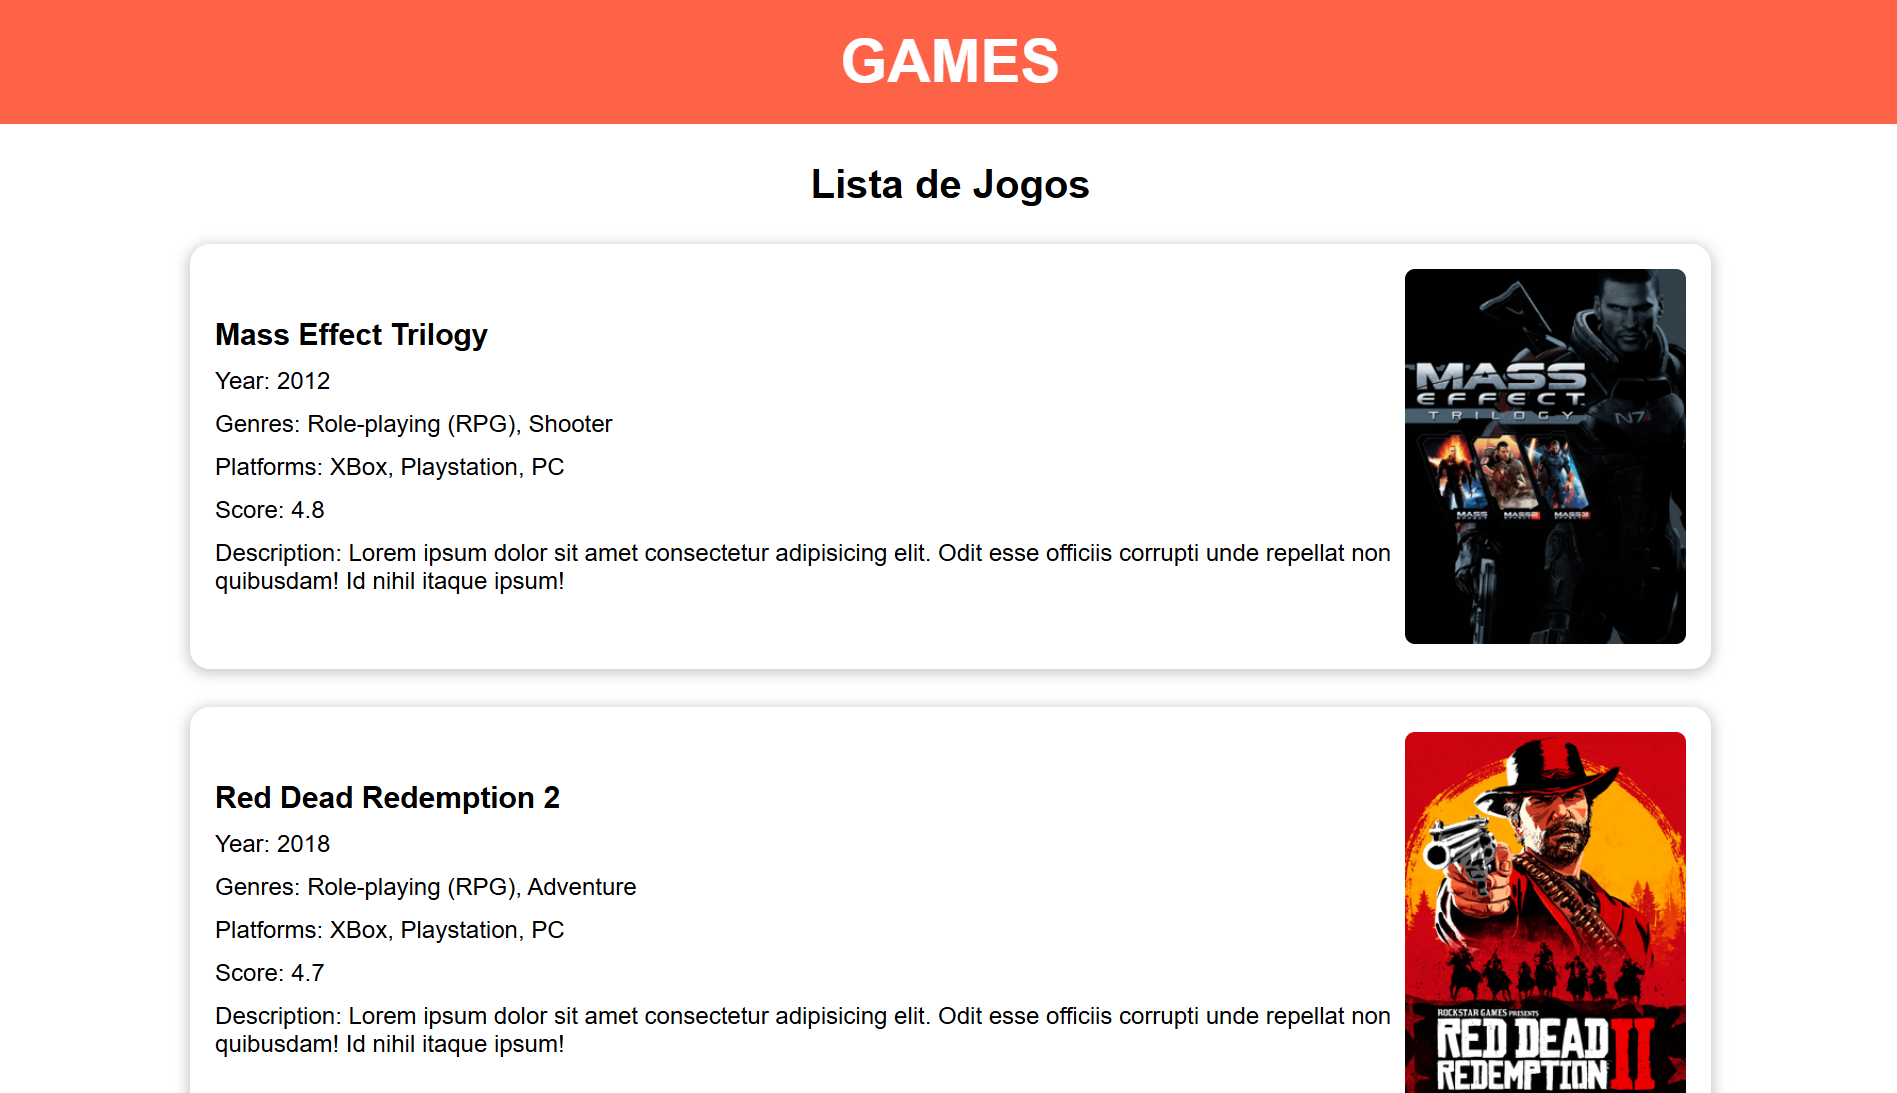
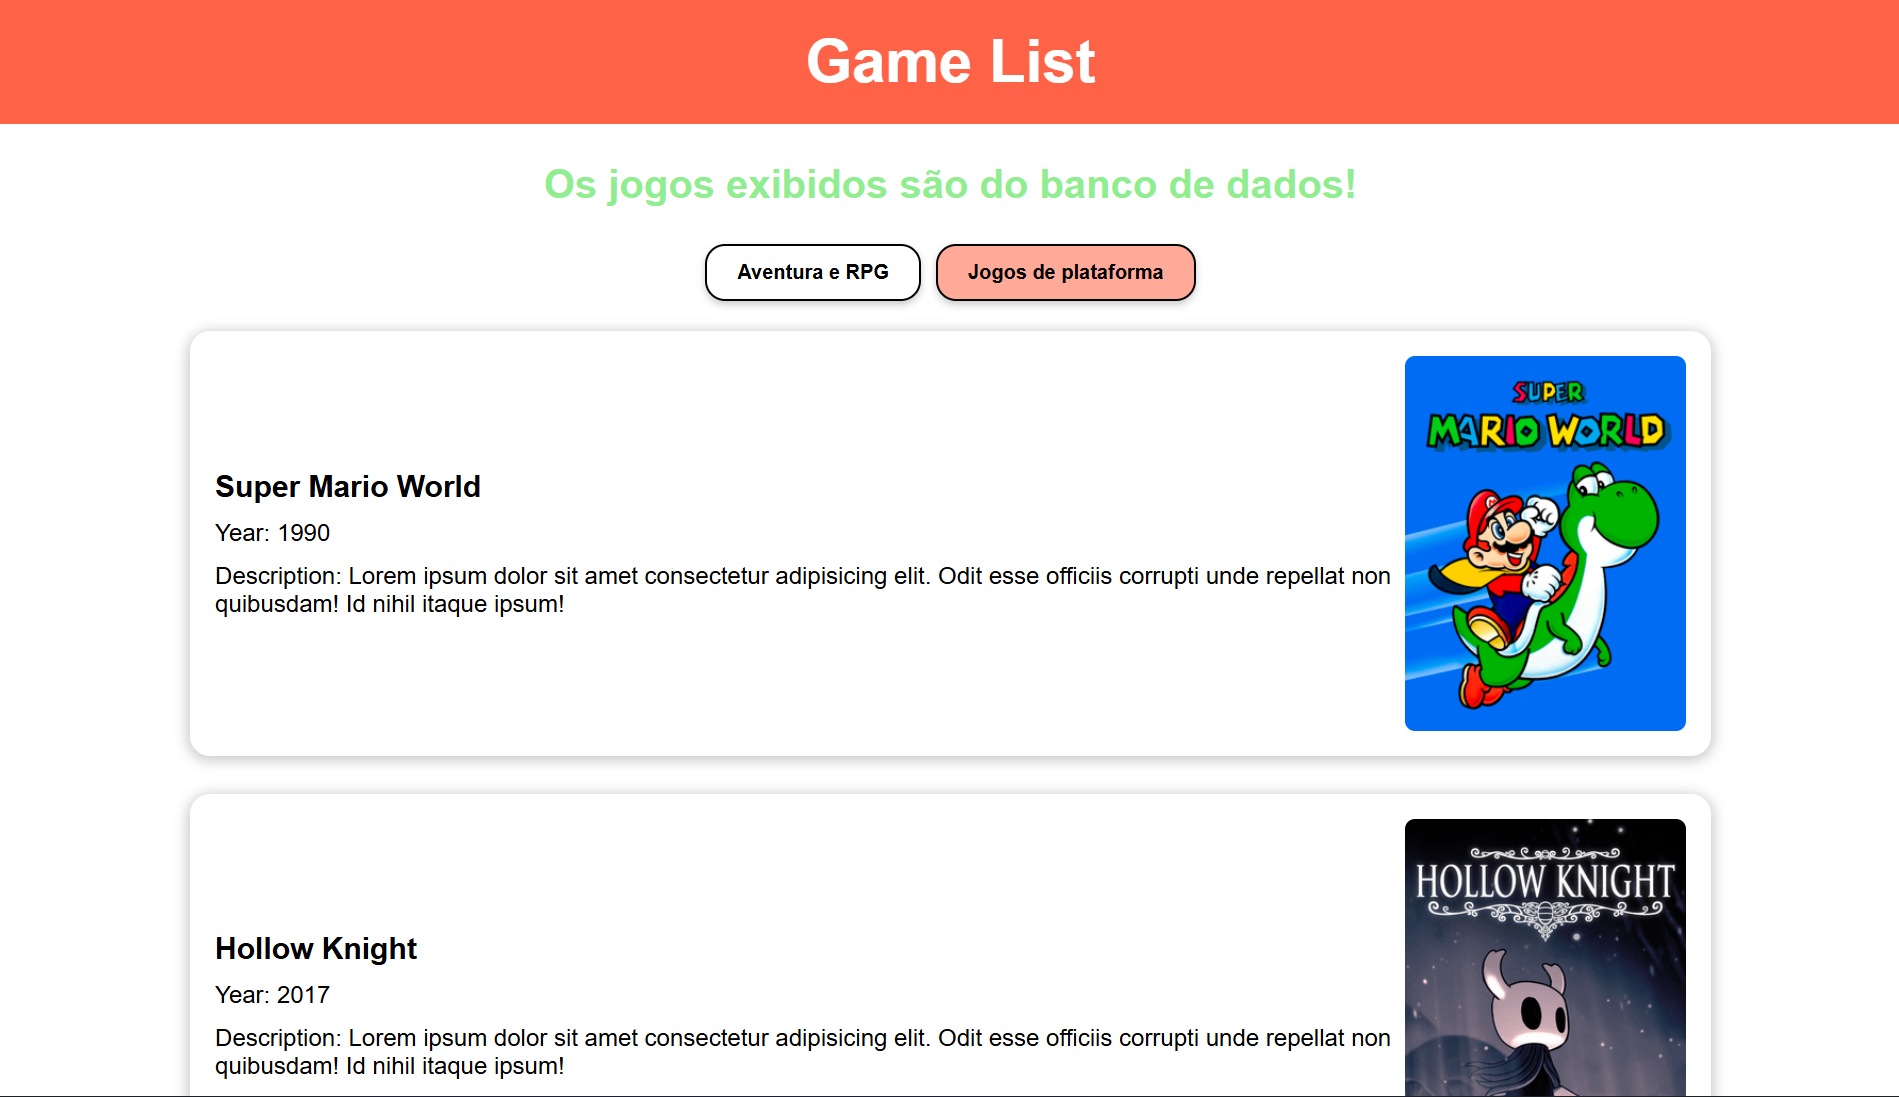
README atualizado

diff --git a/app.js b/app.js
@@ -31,6 +31,7 @@ function criarCards(jogo) {
     card.append(gameInfo, imagem)
 
     card.dataset.gameId = jogo.id
+    card.setAttribute('draggable', 'true');
 
     card.addEventListener('click', () => {
         const id = card.dataset.gameId

diff --git a/style.css b/style.css
@@ -82,6 +82,11 @@ main h1 {
     background-color: white;
 }
 
+.card.dragging {
+    opacity: 0.5;
+    cursor: grabbing;
+}
+
 .game-info {
     display: flex;
     flex-direction: column;

diff --git a/README.md b/README.md
@@ -1,7 +1,7 @@
 # Lista de Jogos
 ![](./img/preview.png)
 
-Site feito com o objetivo de consumir a API construída durante um Intensivão de Java Spring. Como está em processo de desenvolvimento, os dados dos jogos ainda não estão sendo pegos do banco de dados, estando localizados no arquivo JSON. Para pegar os dados e colocá-los nos cards na tela está sendo usado o JavaScript.
+Site feito com o objetivo de consumir a API construída durante um Intensivão de Java Spring. Caso o backend não esteja rodando, será usado os dados do JSON e avisar na tela. Quando o site estiver rodando junto com o backend, irá aparecer botões na tela das categorias de jogos, permitindo que o usuário escolha os cards de jogos que irão aparecer.
 
 ## Como visualizar o projeto
 Para visualizar o site, basta clicar no link abaixo:
